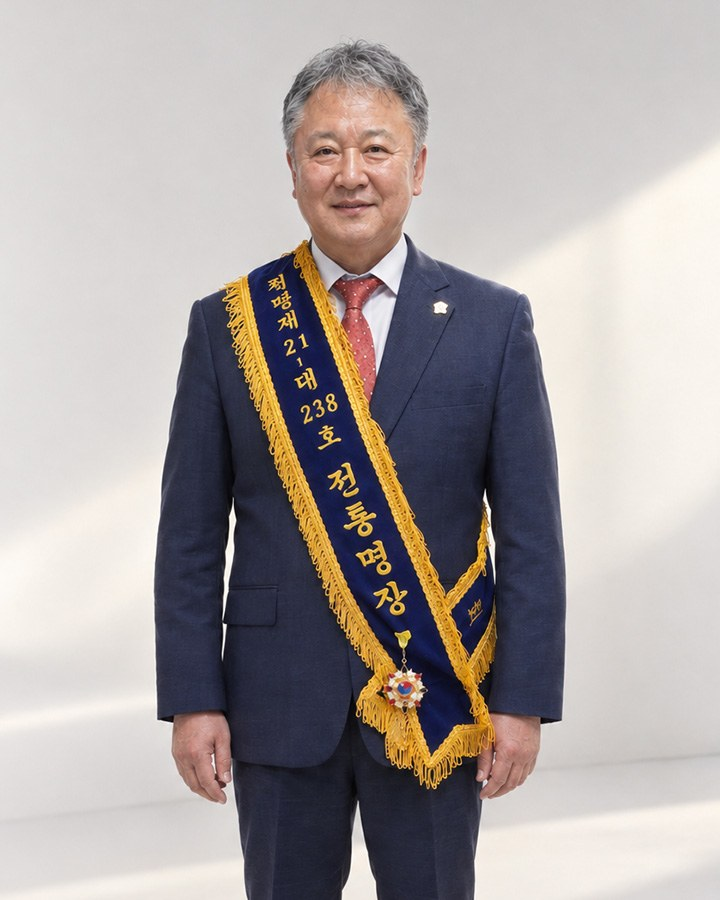
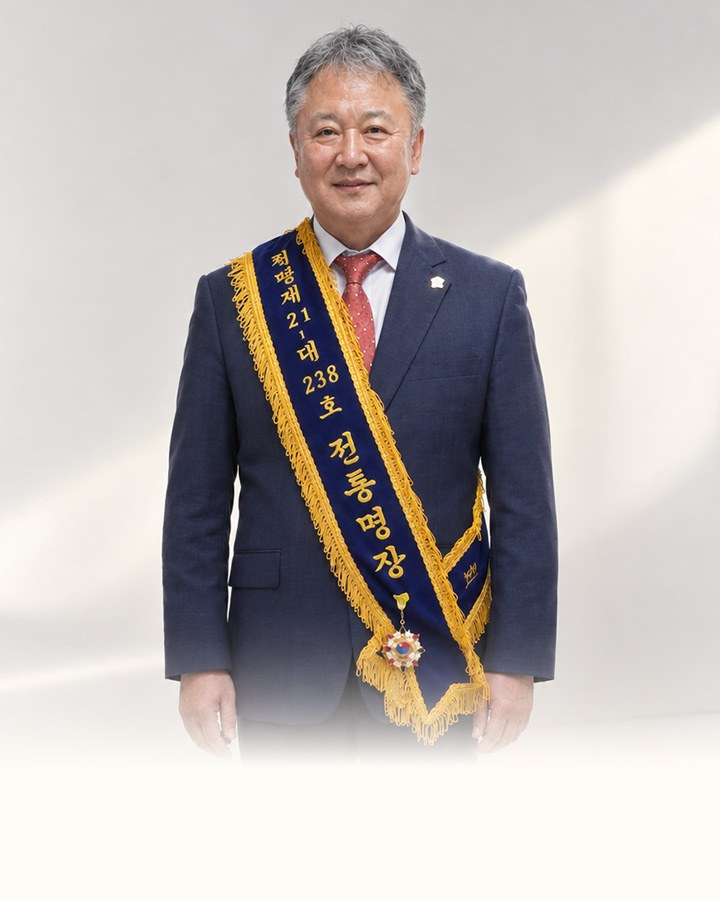
1

diff --git a/src/components/contact/MasterPopup.tsx b/src/components/contact/MasterPopup.tsx
@@ -5,6 +5,8 @@ import * as Dialog from "@radix-ui/react-dialog";
 import { Award, Clock, ShieldCheck, Trophy, Users, X } from "lucide-react";
 
 // "오늘 하루 열지 않기"를 눌렀을 때 이 날짜(YYYY-MM-DD)를 저장해두고, 같은 날에는 팝업을 열지 않습니다.
+import { markPopupClosed } from "@/lib/popup-state";
+
 const STORAGE_KEY = "master-popup-hidden-date";
 const BG = "#FEFBF6";
 
@@ -14,6 +16,15 @@ const credentials = [
   { icon: Users, label: "장례 명장 선정위원" },
   { icon: Clock, label: "20년 이상 장례 실무 경력" },
   { icon: Trophy, label: "장례 대상 수상" },
+];
+
+// 모바일에서는 칩(태그)으로 가로 배열하기 위해 문구를 줄여서 씁니다.
+const mobileCredentials = [
+  "전통 장례 명장",
+  "장례지도사협회 정회원",
+  "명장 선정위원",
+  "실무 20년+",
+  "장례 대상 수상",
 ];
 
 function todayString() {
@@ -37,16 +48,27 @@ function CredentialList({ className }: { className?: string }) {
 }
 
 export default function MasterPopup() {
-  const [open, setOpen] = React.useState(false);
+  // 처음부터 열린 상태로 시작해서, 페이지가 뜨자마자 바로 보이게 합니다.
+  // (팝업은 포털로 브라우저에서만 그려지므로 서버 렌더와 어긋나지 않습니다.)
+  const [open, setOpen] = React.useState(true);
 
-  // 서버/클라이언트 렌더 결과가 달라지지 않도록, 마운트된 뒤에만 저장값을 확인해 엽니다.
-  React.useEffect(() => {
+  // "오늘 하루 열지 않기"를 누른 날이면 바로 닫습니다. (화면이 그려지기 전에 실행)
+  React.useLayoutEffect(() => {
     try {
-      if (localStorage.getItem(STORAGE_KEY) !== todayString()) setOpen(true);
+      if (localStorage.getItem(STORAGE_KEY) === todayString()) {
+        setOpen(false);
+        markPopupClosed();
+      }
     } catch {
-      setOpen(true);
+      /* 저장소를 못 쓰면 그대로 열어둡니다 */
     }
   }, []);
+
+  // 팝업이 닫히면 히어로 말풍선 애니메이션을 시작시킵니다.
+  const handleOpenChange = (next: boolean) => {
+    setOpen(next);
+    if (!next) markPopupClosed();
+  };
 
   const hideToday = () => {
     try {
@@ -54,15 +76,15 @@ export default function MasterPopup() {
     } catch {
       /* 저장소를 못 쓰는 환경이면 그냥 닫기만 합니다 */
     }
-    setOpen(false);
+    handleOpenChange(false);
   };
 
   return (
-    <Dialog.Root open={open} onOpenChange={setOpen}>
+    <Dialog.Root open={open} onOpenChange={handleOpenChange}>
       <Dialog.Portal>
-        <Dialog.Overlay className="fixed inset-0 z-[70] bg-black/40 backdrop-blur-sm data-[state=open]:animate-in data-[state=open]:fade-in-0" />
+        <Dialog.Overlay className="fixed inset-0 z-[70] bg-black/40 backdrop-blur-sm" />
         <Dialog.Content
-          className="fixed left-1/2 top-1/2 z-[70] max-h-[92vh] w-[92vw] max-w-[360px] -translate-x-1/2 -translate-y-1/2 overflow-y-auto overflow-x-hidden rounded-2xl shadow-xl data-[state=open]:animate-in data-[state=open]:fade-in-0 md:max-w-[720px]"
+          className="fixed left-1/2 top-1/2 z-[70] max-h-[92vh] w-[92vw] max-w-[360px] -translate-x-1/2 -translate-y-1/2 overflow-y-auto overflow-x-hidden rounded-2xl shadow-xl md:max-w-[720px]"
           style={{ backgroundColor: BG }}
           aria-describedby={undefined}
         >
@@ -79,39 +101,48 @@ export default function MasterPopup() {
 
           {/* ===== 모바일: 사진 위 / 글자는 사진 아래쪽에 살짝 겹침 ===== */}
           <div className="md:hidden">
-            <div className="relative aspect-[4/5] w-full">
+            {/* 사진 높이는 화면 높이에 맞춰 최대 46vh로 제한해서 팝업이 화면을 넘지 않게 합니다 */}
+            <div className="relative aspect-[4/5] max-h-[42vh] w-full overflow-hidden">
               {/* eslint-disable-next-line @next/next/no-img-element */}
               <img
                 src="/images/popup/master-mobile.jpg"
                 alt="대한민국 전통 장례 명장"
-                className="h-full w-full object-cover"
+                className="h-full w-full object-cover object-top"
+                fetchPriority="high"
               />
               <div
-                className="pointer-events-none absolute inset-x-0 bottom-0 h-[38%]"
+                className="pointer-events-none absolute inset-x-0 bottom-0 h-[30%]"
                 style={{
-                  backgroundImage: `linear-gradient(to top, ${BG} 8%, ${BG}00 100%)`,
+                  backgroundImage: `linear-gradient(to top, ${BG} 10%, ${BG}00 100%)`,
                 }}
               />
             </div>
-            <div className="relative -mt-28 px-6 pb-4 text-center">
-              <p className="text-[13px] font-medium text-brand-600">
+            <div className="relative -mt-5 px-4 pb-4 text-center">
+              <p className="text-[14px] font-medium text-brand-600">
                 장례 명장이 직접 운영합니다.
               </p>
-              <p className="mt-2 font-serif text-[26px] font-bold leading-[1.3] text-brand-900">
-                슬픈 이별,
-                <br />
-                아름다운 배웅.
+              <p className="mt-1 whitespace-nowrap font-serif text-[22px] font-bold leading-[1.3] text-brand-900">
+                슬픈 이별, 아름다운 배웅.
               </p>
-              <p className="mt-3 text-[13px] leading-[1.8] text-neutral-700">
+              <p className="mt-2 text-[14px] leading-[1.7] text-neutral-700">
                 마지막 배웅에도 품격의 차이가 있습니다.
                 <br />
                 대한민국 장례 명장이 함께 하겠습니다.
               </p>
-              <CredentialList className="mx-auto mt-5 grid gap-2 rounded-xl bg-brand-100/70 px-4 py-3.5 text-left" />
+              <ul className="mt-3 flex flex-wrap justify-center gap-1.5">
+                {mobileCredentials.map((label) => (
+                  <li
+                    key={label}
+                    className="rounded-full bg-brand-100 px-2.5 py-1 text-[13px] text-brand-900"
+                  >
+                    {label}
+                  </li>
+                ))}
+              </ul>
               <button
                 type="button"
                 onClick={hideToday}
-                className="mt-4 text-[12px] text-neutral-500 underline-offset-2 hover:underline"
+                className="mt-3 text-[13px] text-neutral-500 underline-offset-2 hover:underline"
               >
                 오늘 하루 열지 않기
               </button>

diff --git a/src/components/sections/HeroSection.tsx b/src/components/sections/HeroSection.tsx
@@ -2,6 +2,8 @@
 
 import Image from "next/image";
 
+import { usePopupClosed } from "@/lib/popup-state";
+
 /**
  * 히어로 섹션. PC/모바일 모두 동일한 구성입니다:
  * 1) 검은 배경의 "장례, 우리는 왜 미리 준비하기 어려울까요?" 말풍선 섹션
@@ -10,6 +12,10 @@ import Image from "next/image";
  * 두 영역은 이미지 상단의 검은 그라디언트로 부드럽게 이어집니다.
  */
 export default function HeroSection() {
+  // 메인 팝업이 닫힌 뒤에야 말풍선 애니메이션이 시작되도록, 그 전에는 투명하게 대기시킵니다.
+  const popupClosed = usePopupClosed();
+  const bubbleAnim = popupClosed ? "animate-fade-in" : "opacity-0";
+
   return (
     <section className="relative overflow-hidden">
       {/* 상조 가입 전 흔한 불안 요소 - 말풍선 3개 */}
@@ -21,7 +27,7 @@ export default function HeroSection() {
           <div className="mt-5 space-y-5 md:mx-auto md:max-w-md">
             <div className="flex justify-start">
               <div
-                className="relative max-w-[78%] animate-fade-in rounded-2xl bg-neutral-800 px-5 py-4 text-center text-base font-bold leading-snug text-white [animation-duration:0.7s] [animation-fill-mode:backwards]"
+                className={`relative max-w-[78%] ${bubbleAnim} rounded-2xl bg-neutral-800 px-5 py-4 text-center text-base font-bold leading-snug text-white [animation-duration:0.7s] [animation-fill-mode:backwards]`}
                 style={{ animationDelay: "0ms" }}
               >
                 장례, 추가비용이 너무 많이 붙어요.
@@ -30,7 +36,7 @@ export default function HeroSection() {
             </div>
             <div className="flex justify-end">
               <div
-                className="relative max-w-[78%] animate-fade-in rounded-2xl bg-neutral-800 px-5 py-4 text-center text-base font-bold leading-snug text-white [animation-duration:0.7s] [animation-fill-mode:backwards]"
+                className={`relative max-w-[78%] ${bubbleAnim} rounded-2xl bg-neutral-800 px-5 py-4 text-center text-base font-bold leading-snug text-white [animation-duration:0.7s] [animation-fill-mode:backwards]`}
                 style={{ animationDelay: "200ms" }}
               >
                 달마다 부담스럽게 납입금을 내야해요.
@@ -39,7 +45,7 @@ export default function HeroSection() {
             </div>
             <div className="flex justify-start">
               <div
-                className="relative max-w-[78%] animate-fade-in rounded-2xl bg-neutral-800 px-5 py-4 text-center text-base font-bold leading-snug text-white [animation-duration:0.7s] [animation-fill-mode:backwards]"
+                className={`relative max-w-[78%] ${bubbleAnim} rounded-2xl bg-neutral-800 px-5 py-4 text-center text-base font-bold leading-snug text-white [animation-duration:0.7s] [animation-fill-mode:backwards]`}
                 style={{ animationDelay: "400ms" }}
               >
                 상조 가입하기에 번거로워요.

diff --git a/src/lib/popup-state.ts b/src/lib/popup-state.ts
@@ -1,0 +1,29 @@
+"use client";
+
+import { useSyncExternalStore } from "react";
+
+// 메인 페이지 팝업(MasterPopup)이 닫혔는지를 다른 컴포넌트(히어로 말풍선 등)와 공유하는 작은 저장소입니다.
+// 팝업이 닫히는 순간 true가 되고, 이를 구독 중인 컴포넌트가 즉시 반응합니다.
+let closed = false;
+const listeners = new Set<() => void>();
+
+export function markPopupClosed() {
+  if (closed) return;
+  closed = true;
+  listeners.forEach((l) => l());
+}
+
+function subscribe(listener: () => void) {
+  listeners.add(listener);
+  return () => {
+    listeners.delete(listener);
+  };
+}
+
+export function usePopupClosed() {
+  return useSyncExternalStore(
+    subscribe,
+    () => closed,
+    () => false
+  );
+}
